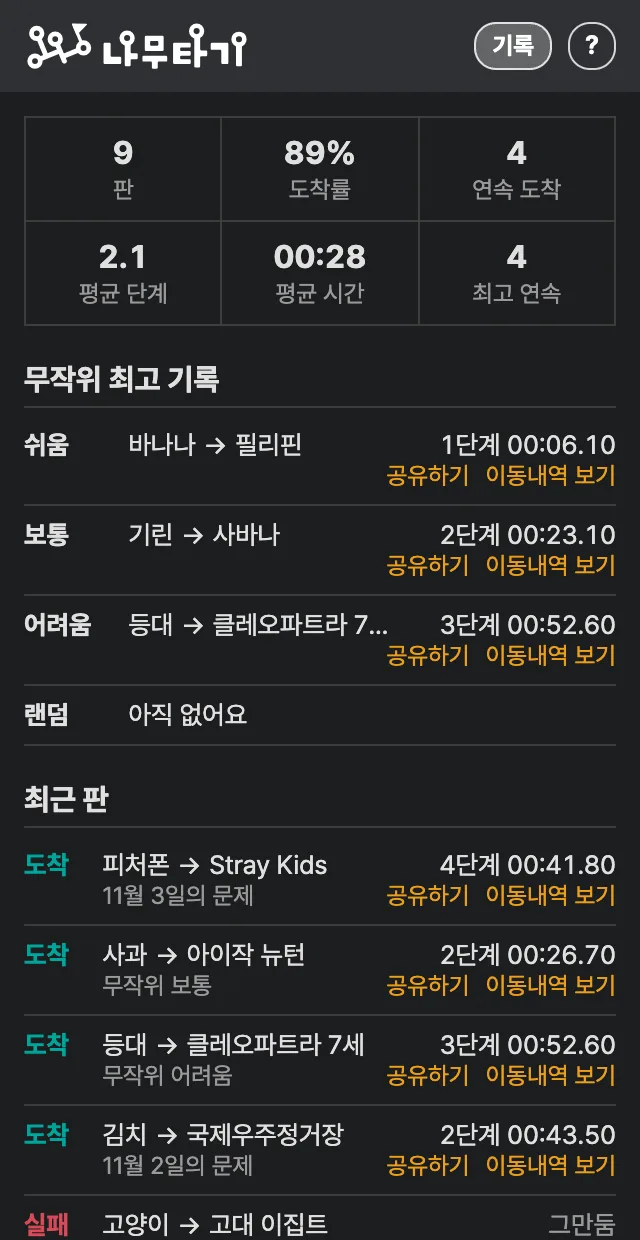
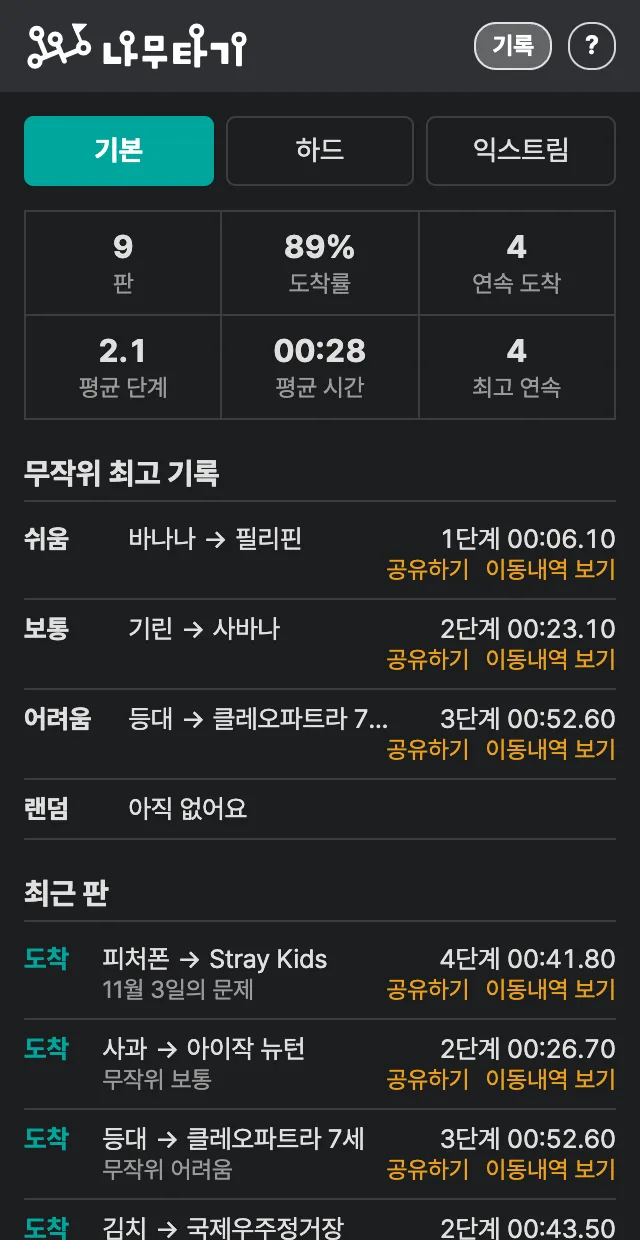
기록 화면 모드 탭, 시험 도전장 정리, 개인정보 문구
- 기록 화면을 기본, 하드, 익스트림(옛 조합은 기타) 탭으로 나누고 추가 옵션별로 고르기
- release-test가 끝날 때 시험 도전장을 지움
- 개인정보처리방침: 고른 규칙 모드와 추가 옵션, 기록 화면 공유, 시행일 2026-11-03
- 팝업 설명과 README 단계 줄에 하드, 익스트림의 뒤로가기와 분류 링크

Changed region(s): [[0.0312, 0.0919, 0.9688, 1.0], [0.625, 0.3065, 0.6562, 0.3371]]

diff --git a/server/public/privacy.html b/server/public/privacy.html
@@ -18,7 +18,7 @@
 <div id="ko" lang="ko">
   <div class="title">
     <h1>나무타기/개인정보처리방침</h1>
-    <div class="sub"><span>시행일: 2026-11-02</span><a href="?lang=en">English</a></div>
+    <div class="sub"><span>시행일: 2026-11-03</span><a href="?lang=en">English</a></div>
   </div>
 
   <p>나무타기(이하 "확장")는 나무위키(namu.wiki)에서 즐기는 비공식 위키레이싱 게임 크롬 확장 프로그램입니다.<br>확장에는 계정이 없습니다. 공유하기로 도전장 링크를 만들 때만 아래에 적은 정보를 개발자의 짧은 링크 서버로 보내고, 그 밖의 정보는 보내지 않습니다.</p>
@@ -41,9 +41,9 @@
   <div>
   <p>다음 정보는 사용자의 크롬 브라우저 안(<code>chrome.storage.local</code>)에만 저장됩니다. 공유하기 때 서버로 보내는 정보는 아래에 따로 적었습니다.</p>
   <ul>
-    <li>게임 기록: 시작 문서, 목표 문서, 지나간 나무위키 문서 이름과 문서마다 걸린 시간, 단계, 결과, 켜 둔 규칙 (최근 200판)</li>
+    <li>게임 기록: 시작 문서, 목표 문서, 지나간 나무위키 문서 이름과 문서마다 걸린 시간, 단계, 결과, 고른 규칙(모드와 추가 옵션) (최근 200판)</li>
     <li>닉네임: 공유하기에서 직접 입력한 이름, 또는 자동으로 만든 이름("명랑한 다람쥐" 등)</li>
-    <li>설정: 규칙 옵션, 무작위 난이도, 경로 표시 여부, 설명을 봤는지 여부</li>
+    <li>설정: 마지막에 고른 규칙 모드와 추가 옵션, 무작위 난이도, 경로 표시 여부, 설명을 봤는지 여부</li>
     <li>최근에 나온 목표 문서 이름(같은 문제가 반복되지 않게 하는 용도)</li>
     <li>목표 문서 미리보기: 목표 문서의 짧은 소개 글과 그림 주소</li>
   </ul>
@@ -64,9 +64,9 @@
   </div>
   <h2 id="s-4"><a href="#toc-ko">4.</a> 도전장 링크를 만들 때 서버로 보내는 정보</h2>
   <div>
-  <p><b>공유하기</b>를 누르면 짧은 도전장 링크(<code>https://namutagi.com/…</code>)를 만들기 위해 다음 정보를 개발자가 운영하는 서버로 보냅니다.</p>
+  <p>결과 카드나 기록 화면에서 <b>공유하기</b>를 누르면 짧은 도전장 링크(<code>https://namutagi.com/…</code>)를 만들기 위해 다음 정보를 개발자가 운영하는 서버로 보냅니다.</p>
   <ul>
-    <li>닉네임, 시작 문서, 목표 문서, 지나간 나무위키 문서 이름과 문서마다 도착한 시각, 단계, 걸린 시간, 켜 둔 규칙, 문제 종류(직접 출제, 무작위, 오늘의 문제), 확장 버전</li>
+    <li>닉네임, 시작 문서, 목표 문서, 지나간 나무위키 문서 이름과 문서마다 도착한 시각, 단계, 걸린 시간, 고른 규칙(모드와 추가 옵션), 문제 종류(직접 출제, 무작위, 오늘의 문제), 확장 버전</li>
     <li>익명 ID: 브라우저마다 무작위로 만든 값입니다. 서버에는 원래 값으로 되돌릴 수 없게 바꾼 값(SHA-256 해시)만 저장합니다. 이름, 이메일 같은 계정 정보는 받지 않습니다.</li>
   </ul>
   <p>이 정보는 짧은 링크로 도전장을 열고 메신저 미리보기를 보여 주는 데 씁니다. 링크를 아는 사람은 누구나 그 도전장의 닉네임, 기록, 경로를 볼 수 있습니다.<br>서버는 Cloudflare, Inc.의 서비스(Workers, D1)를 쓰며, 정보는 국외(미국 등)의 Cloudflare 설비에 저장될 수 있습니다.<br>서비스를 운영하는 동안 보관하며, 아래 문의 메일로 짧은 링크 주소를 알려 주시면 지웁니다.<br>서버에 닿지 못하면 정보를 보내지 않고, 내용을 링크 안에 담은 나무위키 주소를 대신 복사합니다.</p>
@@ -96,7 +96,7 @@
 <div id="en" lang="en" hidden>
   <div class="title">
     <h1>Namutagi/Privacy Policy</h1>
-    <div class="sub"><span>Effective date: 2026-11-02</span><a href="?lang=ko">한국어</a></div>
+    <div class="sub"><span>Effective date: 2026-11-03</span><a href="?lang=ko">한국어</a></div>
   </div>
 
   <p>Namutagi ("the extension") is an unofficial wiki race game for namu.wiki, provided as a Chrome extension.<br>The extension has no accounts. Only when you create a challenge link with Share does it send the information described below to the developer's short link server, and nothing else is sent.</p>
@@ -119,9 +119,9 @@
   <div>
   <p>The following information is stored only in your Chrome browser (<code>chrome.storage.local</code>). What is sent to the server when you share is described separately below.</p>
   <ul>
-    <li>Game records: start article, target article, the names of the namu.wiki articles visited during a game with the time spent on each, steps, result, and enabled rules (the latest 200 games)</li>
+    <li>Game records: start article, target article, the names of the namu.wiki articles visited during a game with the time spent on each, steps, result, and chosen rules (mode and extra options) (the latest 200 games)</li>
     <li>Nickname: a name you type when sharing, or an automatically generated one (such as "명랑한 다람쥐")</li>
-    <li>Settings: rule options, random difficulty, whether the path bar is shown, and whether the introduction has been seen</li>
+    <li>Settings: the last chosen rule mode and extra options, random difficulty, whether the path bar is shown, and whether the introduction has been seen</li>
     <li>Recently used target article names (to avoid repeating the same puzzle)</li>
     <li>Target article previews: a short summary and image address of the target article</li>
   </ul>
@@ -142,9 +142,9 @@
   </div>
   <h2 id="en-4"><a href="#toc-en">4.</a> Information sent to the server when you create a challenge link</h2>
   <div>
-  <p>When you press <b>공유하기</b> (Share), the following information is sent to a server operated by the developer to create a short challenge link (<code>https://namutagi.com/…</code>).</p>
+  <p>When you press <b>공유하기</b> (Share) on the result card or the records screen, the following information is sent to a server operated by the developer to create a short challenge link (<code>https://namutagi.com/…</code>).</p>
   <ul>
-    <li>Nickname, start article, target article, the names of the namu.wiki articles visited with the time you reached each, steps, total time, enabled rules, puzzle type (custom, random, daily), and the extension version</li>
+    <li>Nickname, start article, target article, the names of the namu.wiki articles visited with the time you reached each, steps, total time, chosen rules (mode and extra options), puzzle type (custom, random, daily), and the extension version</li>
     <li>Anonymous ID: a random value created for each browser. The server stores only a one-way SHA-256 hash of it. No account information such as your name or email is collected.</li>
   </ul>
   <p>This information is used to open the challenge from the short link and to show a preview in messengers. Anyone who has the link can see the nickname, record, and path in that challenge.<br>The server runs on Cloudflare, Inc. services (Workers, D1), and the information may be stored in Cloudflare facilities outside Korea, such as in the United States.<br>It is kept while the service is operated, and is deleted if you send the short link address to the contact email below.<br>If the server cannot be reached, nothing is sent, and a namu.wiki link that carries the challenge in the address is copied instead.</p>

diff --git a/extension/popup.js b/extension/popup.js
@@ -283,19 +283,30 @@ const ruleLabelOf = r => {
   const on = [...(m ? [LR_SHARE.MODES[m].name] : RULE_FLAGS.filter(k => x[k]).map(k => FLAGS[k])), x.tl && (x.tl % 60 ? `${x.tl}초 제한` : `${x.tl / 60}분 제한`), x.ms && `${x.ms}단계 제한`].filter(Boolean);
   return on.join(', ');
 };
-let recFilter = null; // 규칙 조합 키 또는 'all'. 처음엔 가장 최근에 한 판의 규칙 조합
+// 기록은 모드(기본, 하드, 익스트림) 탭으로 나눠 본다. 같은 모드라도 추가 옵션이 다르면 기록을 비교할 수 없어서, 옵션 조합이 둘 이상이면
+// 고르는 칸을 띄운다(처음엔 그 모드에서 가장 최근에 한 판의 것, '전체'는 합쳐 보기). 모드에 안 맞는 옛 조합(스위치 시절 기록,
+// 손으로 만든 도전장)은 있을 때만 '기타' 탭에 모으고, 그 안에서는 규칙 조합마다 나눈다. 탭은 처음엔 가장 최근에 한 판의 모드.
+const modeKeyOf = r => LR_SHARE.modeOf(r.rules || {}) || 'other';
+const optKeyOf = r => (modeKeyOf(r) === 'other' ? ruleKeyOf(r) : `${r.rules?.tl || 0}/${r.rules?.ms || 0}`);
+const optLabelOf = r => (modeKeyOf(r) === 'other' ? ruleLabelOf(r)
+  : [r.rules?.tl && (r.rules.tl % 60 ? `${r.rules.tl}초 제한` : `${r.rules.tl / 60}분 제한`), r.rules?.ms && `${r.rules.ms}단계 제한`].filter(Boolean).join(', ') || '추가 옵션 없음');
+let recMode = null, recOpt = null; // 모드 키, 옵션 조합 키 또는 'all'
 const renderRecords = async () => {
   const { records: all = [] } = await store.get('records');
   const box = $('records');
   if (!all.length) return box.replaceChildren(el('p', { className: 'empty', textContent: '아직 끝낸 판이 없어요.\n한 판 해 보세요!' }));
+  const modes = [...Object.keys(LR_SHARE.MODES), ...(all.some(r => modeKeyOf(r) === 'other') ? ['other'] : [])];
+  if (!modes.includes(recMode)) recMode = modeKeyOf(all[0]);
+  const inMode = all.filter(r => modeKeyOf(r) === recMode);
   const groups = new Map();
-  for (const r of all) { const k = ruleKeyOf(r); if (!groups.has(k)) groups.set(k, { label: ruleLabelOf(r), n: 0 }); groups.get(k).n++; }
-  if (!recFilter || (recFilter !== 'all' && !groups.has(recFilter))) recFilter = ruleKeyOf(all[0]);
-  const records = recFilter === 'all' ? all : all.filter(r => ruleKeyOf(r) === recFilter);
-  const picker = groups.size < 2 ? [] : [el('label', { textContent: '규칙별로 보기' }),
-    el('select', { className: 'rulesel', onchange: e => { recFilter = e.target.value; renderRecords(); } },
-      ...[...groups].map(([k, g]) => el('option', { value: k, textContent: `${g.label} (${g.n}판)`, selected: k === recFilter })),
-      el('option', { value: 'all', textContent: `전체 (${all.length}판)`, selected: recFilter === 'all' }))];
+  for (const r of inMode) { const k = optKeyOf(r); if (!groups.has(k)) groups.set(k, { label: optLabelOf(r), n: 0 }); groups.get(k).n++; }
+  if (!recOpt || (recOpt !== 'all' && !groups.has(recOpt))) recOpt = inMode.length ? optKeyOf(inMode[0]) : 'all';
+  const records = recOpt === 'all' ? inMode : inMode.filter(r => optKeyOf(r) === recOpt);
+  const tabs = el('div', { className: 'seg rectabs' }, ...modes.map(m => el('label', { className: 'm-' + m },
+    el('input', { type: 'radio', name: 'recmode', checked: m === recMode, onchange: () => { recMode = m; recOpt = null; renderRecords(); } }), m === 'other' ? '기타' : LR_SHARE.MODES[m].name)));
+  const picker = groups.size < 2 ? [] : [el('select', { className: 'rulesel', title: '추가 옵션별로 보기', onchange: e => { recOpt = e.target.value; renderRecords(); } },
+    ...[...groups].map(([k, g]) => el('option', { value: k, textContent: `${g.label} (${g.n}판)`, selected: k === recOpt })),
+    el('option', { value: 'all', textContent: `전체 (${inMode.length}판)`, selected: recOpt === 'all' }))];
   const wins = records.filter(r => r.win);
   const avg = f => wins.length ? wins.reduce((s, r) => s + f(r), 0) / wins.length : 0;
   let streak = 0, best = 0, run = 0;
@@ -308,8 +319,9 @@ const renderRecords = async () => {
       if (!armed) { armed = true; reset.textContent = '한 번 더 누르면 모두 지워져요'; return; }
       await store.remove(['records', 'used']); renderRecords();
     } });
+  if (!records.length) return box.replaceChildren(tabs, el('p', { className: 'empty', textContent: `${LR_SHARE.MODES[recMode].name} 모드로 끝낸 판이 아직 없어요.` }), reset);
   box.replaceChildren(
-    ...picker,
+    tabs, ...picker,
     el('div', { className: 'grid' },
       stat(records.length, '판'), stat(`${Math.round(wins.length / records.length * 100)}%`, '도착률'), stat(streak, '연속 도착'),
       stat(wins.length ? avg(r => r.steps).toFixed(1) : '-', '평균 단계'), stat(wins.length ? fmt(avg(r => r.ms)).slice(0, 5) : '-', '평균 시간'), stat(best, '최고 연속')),

diff --git a/extension/intro.js b/extension/intro.js
@@ -25,7 +25,7 @@ var LR_INTRO = {
         <li>새 탭이 열리고, 카운트다운이 끝나면 시간이 흘러요.</li>
         <li>본문 링크를 눌러 목표 문서까지 이동해요.</li>
         <li>링크 하나가 1단계예요.</li>
-        <li>도착하면 공유하기로 친구에게 도전장을 보내요.</li>
+        <li>도착하면 공유하기로 친구에게 도전장을 보내요.<br>지난 판도 기록 화면에서 보낼 수 있어요.</li>
       </ul>
 
       <h3><span class="n">2.</span>규칙</h3>
@@ -54,9 +54,9 @@ var LR_INTRO = {
 
       <h3><span class="n">5.</span>단계 세는 법</h3>
       <ul>
-        <li>뒤로가기와 앞으로가기도 1단계예요.</li>
+        <li>뒤로가기와 앞으로가기도 1단계예요.<br>하드와 익스트림에서는 뒤로가기가 막혀요.</li>
         <li>목차와 각주 이동은 세지 않아요.</li>
-        <li>분류 줄의 링크도 눌러서 이동할 수 있어요.</li>
+        <li>분류 줄의 링크도 눌러서 이동할 수 있어요.<br>익스트림에서는 막혀요.</li>
         <li>새로고침은 그대로 이어져요.</li>
       </ul>
 

diff --git a/extension/popup.html b/extension/popup.html
@@ -73,7 +73,8 @@
   .stat b { display: block; font-size: 16px; font-variant-numeric: tabular-nums; }
   .stat span { font-size: 12px; color: var(--muted); }
   .rulesel { display: block; width: 100%; box-sizing: border-box; margin-bottom: 12px; padding: 7px 8px; font: inherit; color: var(--text); background: var(--btn); border: 1px solid var(--border); border-radius: .3rem; }
-  #records label { margin-top: 0; }
+  .rectabs { margin-bottom: 12px; }   /* 기록 화면의 모드 탭(팝업 규칙 칸의 모드 버튼과 같은 모양과 색) */
+  .seg label.m-other { --c: var(--muted); }
   #records h3 { margin: 18px 0 4px; padding-bottom: 4px; font-size: 15px; border-bottom: 1px solid var(--border); }
   .best, .recent { list-style: none; margin: 0; padding: 0; }
   .best > li, .recent > li { display: grid; gap: 1px 8px; align-items: baseline; padding: 7px 0; border-bottom: 1px solid var(--border); font-size: 13px; }

diff --git a/CLAUDE.md b/CLAUDE.md
@@ -30,7 +30,7 @@ main은 2026-11-03에 푸시(v0.2.0 릴리스 커밋). 서버는 namutagi.com에
 - **기록 화면 공유(2026-11-03)**: 서버가 확장 출처도 받는다(버전 6a97be43). 실제 크롬에서 기록 화면의 공유하기가 짧은 링크를 받는 것은 사용자가 확인했다.
 - **규칙 모드와 도착 카드(2026-11-03)**: 결과 카드, 게임 안 도전장 수락 창, 서버 도전장 페이지 모두 난이도 줄과 규칙 줄(모드 칩, 추가 옵션)로 나눈다(수락 창과 도전장 페이지는 모드 설명 한 줄 더). 도착 카드는 문제 줄, 40px 시간, 비교 한 줄(`state.cmp`), 단계별 시간 막대(목록 시간과 진하기로 이음), 폭죽 판 숫자 올라가기. 사진은 `CROPS=<폴더> node e2e/shots.mjs server/public/shots`로 다시 찍었고(결과, 승리 화면은 카드가 길어 1120x700), Figma 슬라이드 2~5의 사진도 바꿨다. 슬라이드 4 설명 글("뒤로가기 금지, 제한 시간, 허브 문서 금지까지 규칙을 골라 난도를 높여요")은 아직 맞는 말이라 그대로 두었다(글을 고치려면 아래 Pretendard 주의).
 - **나중에**: 리더보드(서버 D1의 challenges와 익명 ID `pid` 바탕), 구글 로그인(선택 기능, 익명 ID 기록을 계정에 연결). 사용자와 논의만 했다.
-- **주의**: `node e2e/release-test.mjs`는 실제 서버에 "시험 a|b&c+d" 도전장을 남긴다. 끝나면 지운다(명령은 아래 파일 지도의 `../server/` 칸). 이 맥은 새 도메인의 DNS "없음" 답을 캐시해 터미널 curl이 한동안 `--resolve namutagi.com:443:172.67.158.67`이 필요했다(크롬은 괜찮음).
+- **주의**: `node e2e/release-test.mjs`는 공유하기 시험으로 "시험 a|b&c+d" 도전장을 만들고 끝날 때 스스로 지운다(실제 서버는 원격 D1, `SHORT_BASE=http://localhost:…`면 로컬 D1. 지운 id를 "정리:" 줄로 알려 준다. 도전장 페이지는 가장자리 캐시에 1시간 남는다). 이 맥은 새 도메인의 DNS "없음" 답을 캐시해 터미널 curl이 한동안 `--resolve namutagi.com:443:172.67.158.67`이 필요했다(크롬은 괜찮음).
 
 ## 사용자와 일하는 방식
 
@@ -68,13 +68,13 @@ main은 2026-11-03에 푸시(v0.2.0 릴리스 커밋). 서버는 namutagi.com에
 | `content.js` | 게임 전부(약 1070줄). 판정, 이동 확정, 진행 막대(HUD, Shadow DOM), 카운트다운, 결과 카드, 기록 저장, 팝업 연결(자동완성·목표 확인) |
 | `share.js` | 도전장 공유(`LR_SHARE`): 닉네임 검사 `nameProblem`, 규칙 글 `ruleItems`, `dayLabel`, 짧은 형식 `challengeLink`, 짧은 링크 서버 `shortLink`, 공유 글, 자동 닉네임, 공유 칸(`form`). 결과 카드와 팝업 기록 화면이 같이 쓴다. 콘텐츠 스크립트와 `popup.html` 둘 다 읽는다 |
 | `content.css` | 게임 중 탭(`html[data-ng]`)의 우회로 숨김 |
-| `popup.html`, `popup.js` | 팝업: 오늘의 문제/직접 출제/무작위 탭, 규칙, 규칙(모드 셋과 접힌 추가 옵션. 모드 색은 초록 #00a69c → 진한 청록 #00756e → 더 진한 청록 #004d47, 규칙 칸은 setMode가 그 탭의 시작 버튼 위로 옮김), 기록(규칙별 보기는 모드 이름으로, 무작위 최고 기록도 최근 판과 같은 줄 모양이고 시작과 목표를 따로 줄인다(`whatOf`), 도착한 판마다 공유하기), 설명(?). 직접 출제 입력은 시작 전까지 `draft`(session)에 남고(있으면 직접 출제 탭으로 열림), 직접 출제로 시작하면 비운다. 초기화 버튼, 다시 누르면 전체 선택. 머리글 제목은 `wordmark.svg`(흰색 가로 로고) |
+| `popup.html`, `popup.js` | 팝업: 오늘의 문제/직접 출제/무작위 탭, 규칙, 규칙(모드 셋과 접힌 추가 옵션. 모드 색은 초록 #00a69c → 진한 청록 #00756e → 더 진한 청록 #004d47, 규칙 칸은 setMode가 그 탭의 시작 버튼 위로 옮김), 기록(모드 탭 기본, 하드, 익스트림과 옛 조합이 있으면 기타. 같은 모드에서 추가 옵션 조합이 둘 이상이면 고르는 칸, 무작위 최고 기록도 최근 판과 같은 줄 모양이고 시작과 목표를 따로 줄인다(`whatOf`), 도착한 판마다 공유하기), 설명(?). 직접 출제 입력은 시작 전까지 `draft`(session)에 남고(있으면 직접 출제 탭으로 열림), 직접 출제로 시작하면 비운다. 초기화 버튼, 다시 누르면 전체 선택. 머리글 제목은 `wordmark.svg`(흰색 가로 로고) |
 | `icons/`, `wordmark.svg` | 0.34.0에서 넣은 확장 아이콘 PNG 4종(`design/logo-icon.psd`를 줄임)과 팝업 제목 로고(`design/wordmark-white.svg` 복사본, `server/public/`에도 있다). 로고를 고치면 `design/`에서 다시 만들어 세 곳에 복사 |
 | `intro.js` | 팝업의 설명 글과 모양. 전체(`html`, ? 버튼)와 처음 여는 팝업의 짧은 설명(`short`, 확인이 스크롤 없이 보임) 둘. 나무위키 안 설명 창(모달)은 0.1.0 직전에 없앴다 |
 | `words.js`, `hubs.js` | 자동 생성 목록(무작위 4068개이고 그중 보통 889개가 오늘의 문제 풀, 허브 446개). 직접 고치지 않는다 |
 | `vendor/` | canvas-confetti 1.9.4(ISC). 웹스토어는 원격 코드 금지라 파일로 담았다. `LICENSE-lucide.txt`는 아이콘 라이선스(Lucide ISC + Feather MIT): 진행 막대 ⓘ·경로 아이콘은 Lucide SVG를 인라인으로 넣었다(환영 페이지 줄 아이콘은 0.34.1에서 뺐다. 아이콘을 새로 쓰면 직접 그리지 말고 Lucide에서 가져온다) |
 | `../scripts/` | `build-words.mjs`, `build-hubs.mjs`, `suggest-candidates.mjs`(위키백과 조회수로 후보 제안), `suggest-candidates-wikidata.mjs`(Wikidata 링크된 언어판 수로 후보 제안; 둘 다 풀은 안 건드림)와 후보 목록, 보고서, 조회 캐시는 `scripts/data/`(캐시는 git에서 뺌). 나무위키를 요청 사이 1초씩 쉬며 조사한다 |
-| `../server/` | 짧은 링크 서버(확장 zip에 안 들어감). `src/index.js` 하나(의존 없음): `POST /c`(Origin이 `https://namu.wiki`이거나 확장 ID 두 개(웹스토어, 개발용. `public/site.js`의 EXT와 같음)의 `chrome-extension://`일 때만. 결과 카드는 나무위키 출처, 팝업 기록 화면은 확장 출처로 보낸다. CORS는 그 출처를 돌려준다, 도전장 검사 뒤 D1에 저장, 6자 id 반환. 닉네임은 `nameProblem`: 보이지 않는 글자와 운영자, 공식, 나무위키 같은 낱말 금지, `share.js`와 같은 목록. 카드 설명의 문서 이름은 30자에서 자름), `GET /:id`(도전장 페이지 하나, 나무위키 문서 모양. OG 태그는 미리보기 봇용. 스크립트가 확장에 `ping`을 물어 있으면 바로 `#ng=` 짧은 형식 나무위키 링크로, 없으면 설치 안내, 폰과 크롬 계열이 아닌 브라우저(`userAgentData.mobile`이 false가 아님)는 PC 안내와 링크 복사. 설치하러 갔다 돌아오면 다시 불러 확인. 문서 이름은 30자에서 자른다. 없는 도전장과 없는 주소는 모두 "없는 페이지예요" 404(버튼은 홈으로 가기). 모든 페이지의 위 막대 로고는 `/`(랜딩)로 간다. Cloudflare 가장자리에 1시간 캐시, 캐시 키 `?page5`는 모양을 바꾸면 올린다. 규칙은 게임 안처럼 난이도 줄(무작위)과 규칙 줄(모드 칩, 추가 옵션, 모드 설명)로 나눈다(서버에 `MODES`, `modeOf` 사본). 대시보드 요청 제한(IP당 10초 10번)이 전체에 걸리므로 CSS와 스크립트를 안에 담아 첫 방문 요청을 5번으로 줄였다(2026-11-03부터 공통 파일 4개는 제한에서 빠져 문서만 센다). 글자 조각 글꼴을 쓰지 않는 이유도 같다), `public/`(assets, Worker보다 먼저 나감): `index.html`(`/`, 랜딩 페이지. README와 일부러 다르게 짧은 해요체. 그림은 `shots/`: 게임 화면 960x600 2배, 밝은, 어두운 둘, 기록 화면은 예시 기록. 확장이 있으면 버튼이 "나무위키에서 시작하기"로 바뀌고 누르면 환영 페이지와 같이 나무위키로 가서 팝업을 엶), `site.css`와 `site.js`(모든 페이지 공통 모양과 스크립트: 확장 ID 목록과 `ask`, 소제목 접기, 각주 말풍선, 환영 페이지 버튼, 랜딩 버튼, 개인정보 언어. 도전장 페이지도 쓴다. 페이지마다 다른 것만 각 페이지의 `<style>`에), `welcome.html`(`/welcome`, 설치 환영 페이지. 나무위키 문서 모양: 사과 문서에서 잰 본문 15px, 제목 36px 등, 위 막대 56px, 1024px 미만 48px, 로고 img 27.5px, 720px 이하 24.4px는 나무위키에서 잰 값이고 랜딩 페이지도 같게. 최근 버전은 직접 적음, 내용은 기능 소개가 아니라 첫 판 시작 방법, 게임 규칙, 도전장으로 온 사람 안내, 랜딩 링크. 두 버튼(첫 판 시작하기, 닫기)이 확장에 `introSeen`을 알림, 탭 X로 닫으면 팝업의 짧은 첫 설명이 대신 뜸), `privacy.html`(`/privacy`, 제목 "나무타기/개인정보처리방침", 브라우저 언어가 한국어가 아니면 영어, `?lang=`으로 바꿈, 모양은 환영 페이지와 같고 내용은 저장소의 `PRIVACY.md`와 같아야 한다: 고치면 둘 다, 시행일도), `og-card.png`(미리보기 카드 그림 1200×630: 위 막대 색에 흰 `design/wordmark-white.svg`를 헤드리스 크롬으로 찍음), `og.png`(탭 아이콘), `wordmark.svg`, `fonts/`, `_headers`, `.assetsignore`(Mac의 `.DS_Store`가 공개로 올라간 적이 있어 뺐다). `POST /c`는 ratelimit 바인딩 `LIMIT`(IP당, IPv6는 앞 64비트, 60초 10번, 넘으면 429). `schema.sql`(challenges 표, player는 익명 ID의 SHA-256), `wrangler.toml`. 2026-10-29 배포: Cloudflare 계정 l4n14ke4.dev@gmail.com, D1 `namutagi`(APAC, id 6f84cf26-…), Worker `namutagi`가 namutagi.com custom domain(도메인도 Cloudflare Registrar). 다시 배포는 `cd server && npx wrangler deploy`. **`node e2e/release-test.mjs`는 이제 실제 서버에 도전장을 하나 남긴다**(이름 "시험 a|b&c+d"): 끝나면 `npx wrangler d1 execute namutagi --remote --command "DELETE FROM challenges WHERE by = '시험 a|b&c+d'"`로 지운다. 로컬 시험: `npx wrangler d1 execute namutagi --local --file=schema.sql && npx wrangler dev --local` 후 `SHORT_BASE=http://localhost:8787 node e2e/release-test.mjs`. 보관 기한 없음(요청 시 삭제) |
+| `../server/` | 짧은 링크 서버(확장 zip에 안 들어감). `src/index.js` 하나(의존 없음): `POST /c`(Origin이 `https://namu.wiki`이거나 확장 ID 두 개(웹스토어, 개발용. `public/site.js`의 EXT와 같음)의 `chrome-extension://`일 때만. 결과 카드는 나무위키 출처, 팝업 기록 화면은 확장 출처로 보낸다. CORS는 그 출처를 돌려준다, 도전장 검사 뒤 D1에 저장, 6자 id 반환. 닉네임은 `nameProblem`: 보이지 않는 글자와 운영자, 공식, 나무위키 같은 낱말 금지, `share.js`와 같은 목록. 카드 설명의 문서 이름은 30자에서 자름), `GET /:id`(도전장 페이지 하나, 나무위키 문서 모양. OG 태그는 미리보기 봇용. 스크립트가 확장에 `ping`을 물어 있으면 바로 `#ng=` 짧은 형식 나무위키 링크로, 없으면 설치 안내, 폰과 크롬 계열이 아닌 브라우저(`userAgentData.mobile`이 false가 아님)는 PC 안내와 링크 복사. 설치하러 갔다 돌아오면 다시 불러 확인. 문서 이름은 30자에서 자른다. 없는 도전장과 없는 주소는 모두 "없는 페이지예요" 404(버튼은 홈으로 가기). 모든 페이지의 위 막대 로고는 `/`(랜딩)로 간다. Cloudflare 가장자리에 1시간 캐시, 캐시 키 `?page5`는 모양을 바꾸면 올린다. 규칙은 게임 안처럼 난이도 줄(무작위)과 규칙 줄(모드 칩, 추가 옵션, 모드 설명)로 나눈다(서버에 `MODES`, `modeOf` 사본). 대시보드 요청 제한(IP당 10초 10번)이 전체에 걸리므로 CSS와 스크립트를 안에 담아 첫 방문 요청을 5번으로 줄였다(2026-11-03부터 공통 파일 4개는 제한에서 빠져 문서만 센다). 글자 조각 글꼴을 쓰지 않는 이유도 같다), `public/`(assets, Worker보다 먼저 나감): `index.html`(`/`, 랜딩 페이지. README와 일부러 다르게 짧은 해요체. 그림은 `shots/`: 게임 화면 960x600 2배, 밝은, 어두운 둘, 기록 화면은 예시 기록. 확장이 있으면 버튼이 "나무위키에서 시작하기"로 바뀌고 누르면 환영 페이지와 같이 나무위키로 가서 팝업을 엶), `site.css`와 `site.js`(모든 페이지 공통 모양과 스크립트: 확장 ID 목록과 `ask`, 소제목 접기, 각주 말풍선, 환영 페이지 버튼, 랜딩 버튼, 개인정보 언어. 도전장 페이지도 쓴다. 페이지마다 다른 것만 각 페이지의 `<style>`에), `welcome.html`(`/welcome`, 설치 환영 페이지. 나무위키 문서 모양: 사과 문서에서 잰 본문 15px, 제목 36px 등, 위 막대 56px, 1024px 미만 48px, 로고 img 27.5px, 720px 이하 24.4px는 나무위키에서 잰 값이고 랜딩 페이지도 같게. 최근 버전은 직접 적음, 내용은 기능 소개가 아니라 첫 판 시작 방법, 게임 규칙, 도전장으로 온 사람 안내, 랜딩 링크. 두 버튼(첫 판 시작하기, 닫기)이 확장에 `introSeen`을 알림, 탭 X로 닫으면 팝업의 짧은 첫 설명이 대신 뜸), `privacy.html`(`/privacy`, 제목 "나무타기/개인정보처리방침", 브라우저 언어가 한국어가 아니면 영어, `?lang=`으로 바꿈, 모양은 환영 페이지와 같고 내용은 저장소의 `PRIVACY.md`와 같아야 한다: 고치면 둘 다, 시행일도), `og-card.png`(미리보기 카드 그림 1200×630: 위 막대 색에 흰 `design/wordmark-white.svg`를 헤드리스 크롬으로 찍음), `og.png`(탭 아이콘), `wordmark.svg`, `fonts/`, `_headers`, `.assetsignore`(Mac의 `.DS_Store`가 공개로 올라간 적이 있어 뺐다). `POST /c`는 ratelimit 바인딩 `LIMIT`(IP당, IPv6는 앞 64비트, 60초 10번, 넘으면 429). `schema.sql`(challenges 표, player는 익명 ID의 SHA-256), `wrangler.toml`. 2026-10-29 배포: Cloudflare 계정 l4n14ke4.dev@gmail.com, D1 `namutagi`(APAC, id 6f84cf26-…), Worker `namutagi`가 namutagi.com custom domain(도메인도 Cloudflare Registrar). 다시 배포는 `cd server && npx wrangler deploy`. `node e2e/release-test.mjs`가 만드는 시험 도전장(이름 "시험 a|b&c+d")은 끝날 때 스스로 지운다(손으로는 `npx wrangler d1 execute namutagi --remote --command "DELETE FROM challenges WHERE by = '시험 a|b&c+d'"`). 로컬 시험: `npx wrangler d1 execute namutagi --local --file=schema.sql && npx wrangler dev --local` 후 `SHORT_BASE=http://localhost:8787 node e2e/release-test.mjs`. 보관 기한 없음(요청 시 삭제) |
 | `../e2e/` | 의존 없음(Node 22+ 내장 WebSocket으로 CDP). `release-test.mjs`(릴리스 zip이나 extension 폴더를 Chrome for Testing 새 프로필에 올려 33항목 확인, `node e2e/release-test.mjs <폴더>`), `shots.mjs`(사이트와 README 사진 다시 찍기), `popup-harness/`(팝업 시험 도구). Chrome for Testing은 `npx @puppeteer/browsers install chrome@stable --path e2e/browsers`(git에서 뺌)나 ~/.cache/puppeteer |
 | `../demo/` | 폭죽, 카운트다운, 아이콘 라이브러리 비교(`icons.html`), 로고 후보(`logo.html`: 나무위키 로고를 재서 다시 그린 변형 8가지) 데모(확장 아님) |
 | `../design/` | 고른 로고(2번 목표 깃발)의 PSD·SVG·PNG. `logo-icon`은 초록 원 아이콘 1024px, `logo-mark`는 로고만 투명 배경, `wordmark-*`는 마크 + "나무타기" 글자(밝은/어두운 배경용 SVG·PNG, `wordmark.psd`는 글자·고리·마크 14레이어)로 제목에 쓴다. 글자 나·무는 나무위키 로고에서 가장자리를 재서 그대로 다시 그렸고(획 굵기 차이: ㄴ 28, 줄기 23.3, ㅁ 21, ㅋ 가운데 줄 18.6, 둥근 모서리 볼록 4.75·오목 4.2), 타·기는 같은 규칙으로 새로 짰다(고리 높이도 나무위키처럼 낮음·높음·중간). PSD는 부분마다 레이어(래스터). 사용자가 직접 다듬었다(`logo-mark.psd`는 깃발을 왼쪽으로 34px, `logo-icon.psd`는 오른쪽 14px·아래 6px 옮겨서 고리 지름의 약 15% 어긋나 있고 괜찮다고 봄). 2026-10-29에 `logo-icon`·`logo-mark`의 PNG는 PSD 합성 그대로, SVG는 깃발 `<polygon>`을 `translate`로 감싸 PSD와 맞췄다(헤드리스 크롬으로 그려 PSD와 비교해 차이 없음). PSD를 또 고치면 이 넷을 다시 맞추고 `extension/icons/`도 `logo-icon.png`를 줄여 다시 만든다. `wordmark.mjs`는 글자 모양·간격과 마크 위치의 원본(마크 PSD의 깃발 이동량이 안에 상수로 들어 있다. `node design/wordmark.mjs demo/logo.html <폴더>`. `wordmark-white.svg`는 팝업용 흰색 한 색). 아이콘과 팝업 제목은 0.34.0에서 확장에 넣었다 |

diff --git a/PRIVACY.md b/PRIVACY.md
@@ -1,6 +1,6 @@
 # 나무타기 개인정보처리방침 / Privacy Policy
 
-시행일 / Effective date: 2026-11-02
+시행일 / Effective date: 2026-11-03
 
 [한국어](#한국어) | [English](#english)
 
@@ -13,9 +13,9 @@
 
 다음 정보는 사용자의 크롬 브라우저 안(`chrome.storage.local`)에만 저장됩니다. 공유하기 때 서버로 보내는 정보는 아래에 따로 적었습니다.
 
-- 게임 기록: 시작 문서, 목표 문서, 지나간 나무위키 문서 이름과 문서마다 걸린 시간, 단계, 결과, 켜 둔 규칙 (최근 200판)
+- 게임 기록: 시작 문서, 목표 문서, 지나간 나무위키 문서 이름과 문서마다 걸린 시간, 단계, 결과, 고른 규칙(모드와 추가 옵션) (최근 200판)
 - 닉네임: 공유하기에서 직접 입력한 이름, 또는 자동으로 만든 이름("명랑한 다람쥐" 등)
-- 설정: 규칙 옵션, 무작위 난이도, 경로 표시 여부, 설명을 봤는지 여부
+- 설정: 마지막에 고른 규칙 모드와 추가 옵션, 무작위 난이도, 경로 표시 여부, 설명을 봤는지 여부
 - 최근에 나온 목표 문서 이름(같은 문제가 반복되지 않게 하는 용도)
 - 목표 문서 미리보기: 목표 문서의 짧은 소개 글과 그림 주소
 
@@ -38,9 +38,9 @@
 
 ### 도전장 링크를 만들 때 서버로 보내는 정보
 
-**공유하기**를 누르면 짧은 도전장 링크(`https://namutagi.com/…`)를 만들기 위해 다음 정보를 개발자가 운영하는 서버로 보냅니다.
+결과 카드나 기록 화면에서 **공유하기**를 누르면 짧은 도전장 링크(`https://namutagi.com/…`)를 만들기 위해 다음 정보를 개발자가 운영하는 서버로 보냅니다.
 
-- 닉네임, 시작 문서, 목표 문서, 지나간 나무위키 문서 이름과 문서마다 도착한 시각, 단계, 걸린 시간, 켜 둔 규칙, 문제 종류(직접 출제, 무작위, 오늘의 문제), 확장 버전
+- 닉네임, 시작 문서, 목표 문서, 지나간 나무위키 문서 이름과 문서마다 도착한 시각, 단계, 걸린 시간, 고른 규칙(모드와 추가 옵션), 문제 종류(직접 출제, 무작위, 오늘의 문제), 확장 버전
 - 익명 ID: 브라우저마다 무작위로 만든 값입니다. 서버에는 원래 값으로 되돌릴 수 없게 바꾼 값(SHA-256 해시)만 저장합니다. 이름, 이메일 같은 계정 정보는 받지 않습니다.
 
 이 정보는 짧은 링크로 도전장을 열고 메신저 미리보기를 보여 주는 데 씁니다. 링크를 아는 사람은 누구나 그 도전장의 닉네임, 기록, 경로를 볼 수 있습니다.
@@ -78,9 +78,9 @@ The extension has no accounts. Only when you create a challenge link with Share 
 
 The following information is stored only in your Chrome browser (`chrome.storage.local`). What is sent to the server when you share is described separately below.
 
-- Game records: start article, target article, the names of the namu.wiki articles visited during a game with the time spent on each, steps, result, and enabled rules (the latest 200 games)
+- Game records: start article, target article, the names of the namu.wiki articles visited during a game with the time spent on each, steps, result, and chosen rules (mode and extra options) (the latest 200 games)
 - Nickname: a name you type when sharing, or an automatically generated one (such as "명랑한 다람쥐")
-- Settings: rule options, random difficulty, whether the path bar is shown, and whether the introduction has been seen
+- Settings: the last chosen rule mode and extra options, random difficulty, whether the path bar is shown, and whether the introduction has been seen
 - Recently used target article names (to avoid repeating the same puzzle)
 - Target article previews: a short summary and image address of the target article
 
@@ -103,9 +103,9 @@ Otherwise, it sends requests to the short link server (namutagi.com) when you cr
 
 ### Information sent to the server when you create a challenge link
 
-When you press **공유하기** (Share), the following information is sent to a server operated by the developer to create a short challenge link (`https://namutagi.com/…`).
+When you press **공유하기** (Share) on the result card or the records screen, the following information is sent to a server operated by the developer to create a short challenge link (`https://namutagi.com/…`).
 
-- Nickname, start article, target article, the names of the namu.wiki articles visited with the time you reached each, steps, total time, enabled rules, puzzle type (custom, random, daily), and the extension version
+- Nickname, start article, target article, the names of the namu.wiki articles visited with the time you reached each, steps, total time, chosen rules (mode and extra options), puzzle type (custom, random, daily), and the extension version
 - Anonymous ID: a random value created for each browser. The server stores only a one-way SHA-256 hash of it. No account information such as your name or email is collected.
 
 This information is used to open the challenge from the short link and to show a preview in messengers. Anyone who has the link can see the nickname, record, and path in that challenge.

diff --git a/README.md b/README.md
@@ -76,7 +76,7 @@
 ## 게임 규칙
 
 **단계 세는 법**
-- 링크를 눌러 다른 문서로 가면 1단계입니다. 뒤로가기와 앞으로가기도 1단계로 셉니다.
+- 링크를 눌러 다른 문서로 가면 1단계입니다. 뒤로가기와 앞으로가기도 1단계로 셉니다(하드와 익스트림에서는 뒤로가기가 막힙니다).
 - 목차와 각주로 이동하는 것은 세지 않습니다.
 - 새로고침해도 게임은 그대로 이어집니다.
 
